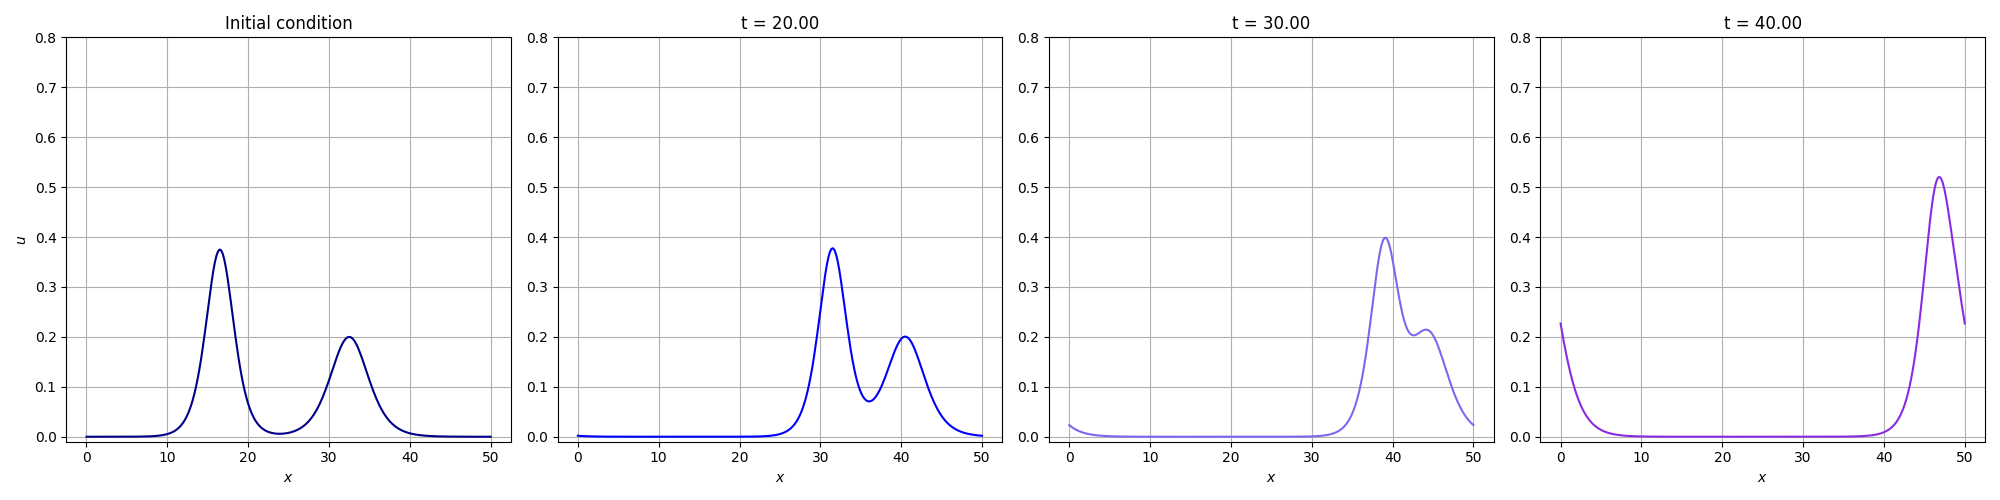
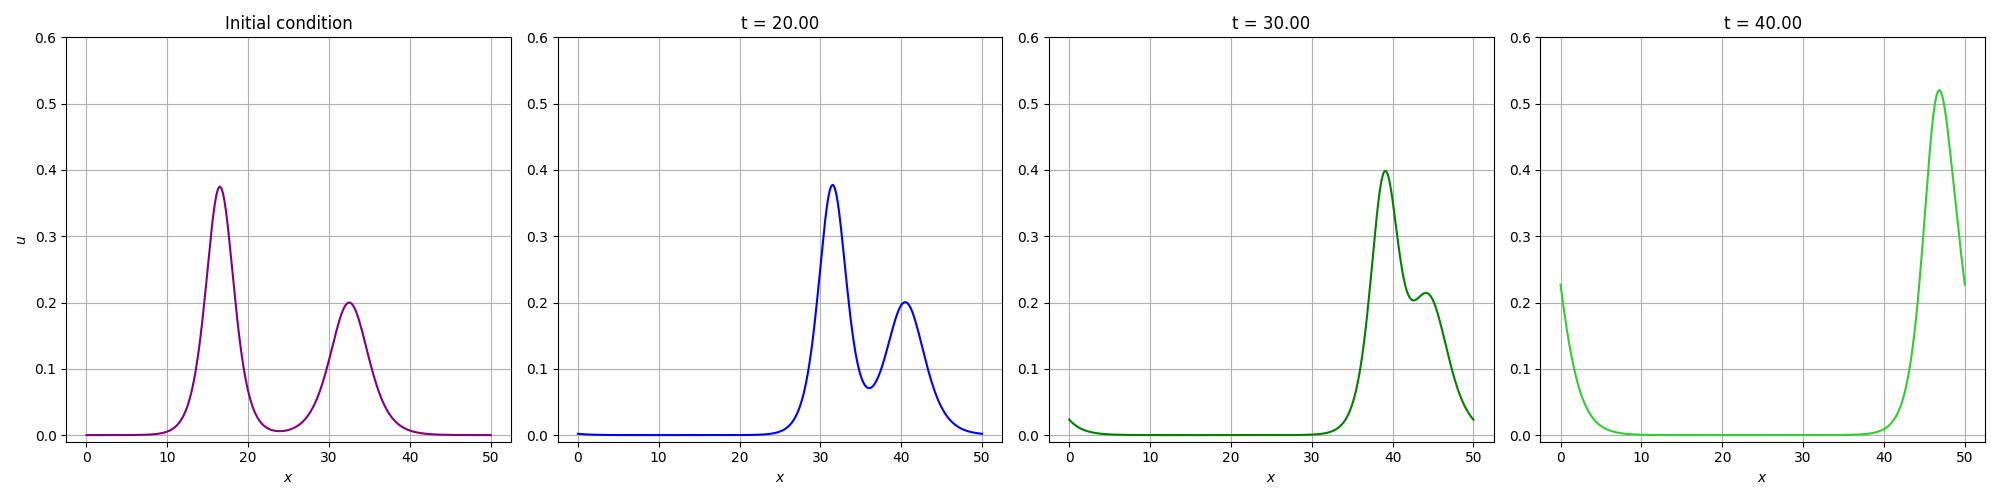
updated both four_frames Plots

diff --git a/Python codes/sum_linear.py b/Python codes/sum_linear.py
@@ -50,7 +50,7 @@ def u_array(u, steps):
 def four_frames(u,u_max,t_end,steps):
     fig, ax = plt.subplots(1, 4, figsize=(20, 5))
 
-    ax[0].plot(x, u[:,0], color = "darkblue")
+    ax[0].plot(x, u[:,0], color = "purple")
     ax[0].set_title('Initial condition')
     ax[0].set_xlabel('$x$')
     ax[0].set_ylabel('$u$')
@@ -63,13 +63,13 @@ def four_frames(u,u_max,t_end,steps):
     ax[1].set_ylim(-0.01, u_max)
     ax[1].grid()
 
-    ax[2].plot(x, u[:,3*t_end//20], color = "mediumslateblue")
+    ax[2].plot(x, u[:,3*t_end//20], color = "green")
     ax[2].set_title('t = {:.2f}'.format(3*t_end / 20))
     ax[2].set_xlabel('$x$')
     ax[2].set_ylim(-0.01, u_max)
     ax[2].grid()
 
-    ax[3].plot(x, u[:,4*t_end//20], color = "blueviolet")
+    ax[3].plot(x, u[:,4*t_end//20], color = "limegreen")
     ax[3].set_title('t = {:.2f}'.format(4*t_end / 20))
     ax[3].set_xlabel('$x$')
     ax[3].set_ylim(-0.01, u_max)
@@ -140,7 +140,7 @@ u_a = analytical_sol( t_max, c1, a1, t_max) + analytical_sol(t_max, c2, a2, t_ma
 
 u_sol = u_array(u_a, t_max)
 
-four_frames(u_a, 0.8, t_max, steps)
+four_frames(u_a, 0.6, t_max, steps)
 
 colormap(t_max, t_max, u_sol, 0.8)
 

diff --git a/Python codes/soliton_KdV.py b/Python codes/soliton_KdV.py
@@ -81,29 +81,29 @@ u_a = analytical_sol(t_max, c1, a1) + analytical_sol(t_max, c2, a2)
 
 fig, ax = plt.subplots(1, 4, figsize=(20, 5))
 
-ax[0].plot(x, u_history[0], color = "darkblue")
+ax[0].plot(x, u_history[0], color = "purple")
 ax[0].set_title('Initial condition')
 ax[0].set_xlabel('$x$')
 ax[0].set_ylabel('$u$')
-ax[0].set_ylim(-0.01, 0.8)
+ax[0].set_ylim(-0.01, 0.6)
 ax[0].grid()
 
 ax[1].plot(x, u_history[2*steps//20], color = "blue")
 ax[1].set_title('t = {:.2f}'.format(2*t_max / 20))
 ax[1].set_xlabel('$x$')
-ax[1].set_ylim(-0.01, 0.8)
+ax[1].set_ylim(-0.01, 0.6)
 ax[1].grid()
 
-ax[2].plot(x, u_history[3*steps//20], color = "mediumslateblue")
+ax[2].plot(x, u_history[3*steps//20], color = "green")
 ax[2].set_title('t = {:.2f}'.format(3*t_max / 20))
 ax[2].set_xlabel('$x$')
-ax[2].set_ylim(-0.01, 0.8)
+ax[2].set_ylim(-0.01, 0.6)
 ax[2].grid()
 
-ax[3].plot(x, u_history[4*steps//20], color = "blueviolet")
+ax[3].plot(x, u_history[4*steps//20], color = "limegreen")
 ax[3].set_title('t = {:.2f}'.format(4*t_max / 20))
 ax[3].set_xlabel('$x$')
-ax[3].set_ylim(-0.01, 0.8)
+ax[3].set_ylim(-0.01, 0.6)
 ax[3].grid()
 
 plt.tight_layout()
